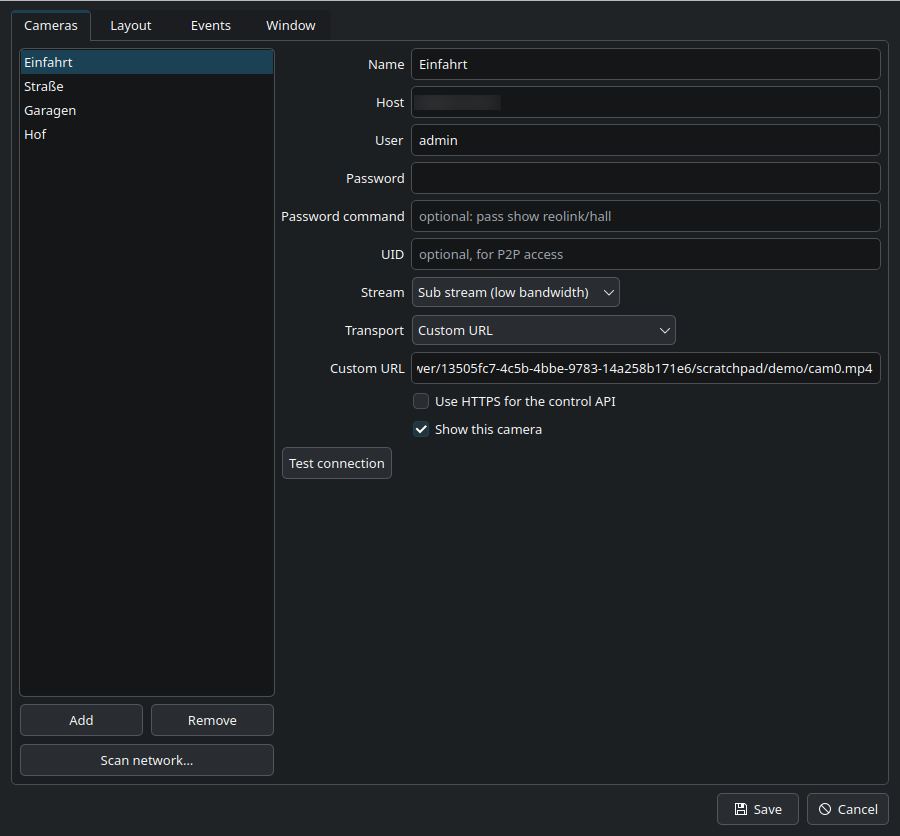
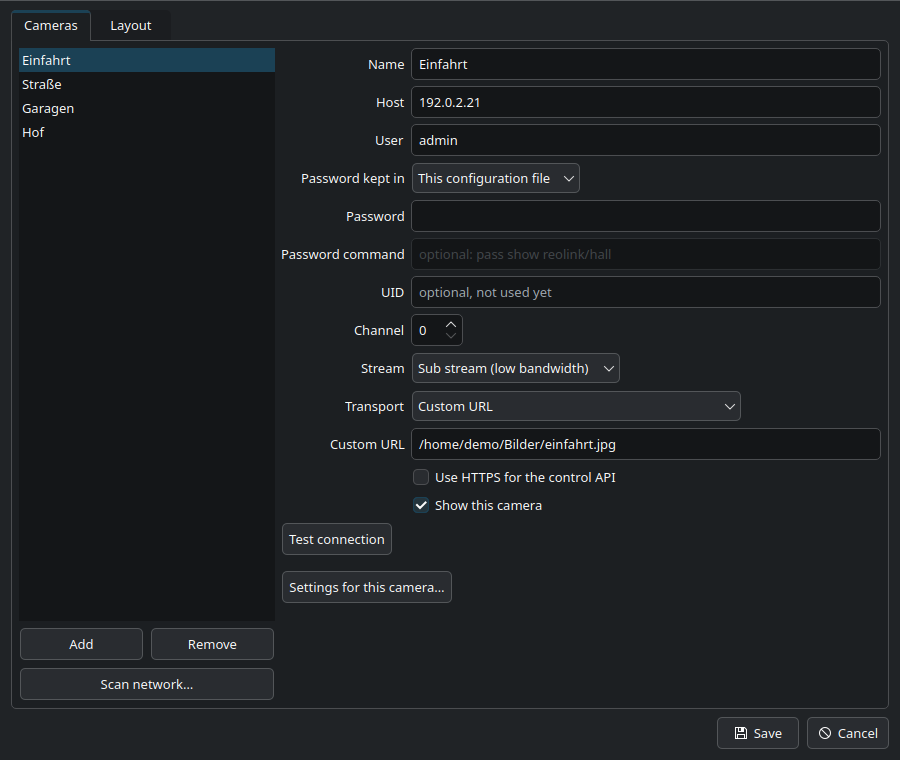
Take the settings screenshots again, now the settings are split
The settings window was split into the camera list (Cameras, Layout) and
Settings (Window, On motion, Reactions, Recordings, Video, General), and the
screenshots still showed the old Events and Window tabs. Two of them were in
the store listing; the camera list showed a temporary file's path in its
Custom URL field.

The camera list and layout are taken again, with documentation addresses
and tidy paths, in the same dark theme as the rest. On motion and Reactions
are new. The store listing loses the old Events and Window pictures, gains
the camera list, and shows Reactions for what happens on motion. The old
files stay, since releases already out point at them.

LEOLINK_SCREENSHOT_OF=preferences takes every page of Settings, as
=settings does for the camera list.

diff --git a/src/MainWindow.cpp b/src/MainWindow.cpp
@@ -217,6 +217,13 @@ MainWindow::MainWindow(QWidget *parent)
                 QApplication::quit();
                 return;
             }
+            if (which == QLatin1String("preferences")) {
+                PreferencesDialog dialog(m_config, this);
+                dialog.resize(900, 760);
+                shootTabs(dialog, QStringLiteral("preferences"));
+                QApplication::quit();
+                return;
+            }
             if (which.startsWith(QLatin1String("camera:"))) {
                 const QString host = which.mid(7);
                 for (const CameraConfig &camera : m_config.active()) {

diff --git a/README.md b/README.md
@@ -86,8 +86,8 @@ from and what was blurred.
 |---|---|
 | ![Cameras](docs/screenshots/settings-01-cameras.png) | ![Layout](docs/screenshots/settings-02-layout.png) |
 | **Cameras** — address, credentials, stream and transport | **Layout** — the grid, and which cell a camera occupies |
-| ![Events](docs/screenshots/settings-03-events.png) | ![Window](docs/screenshots/settings-04-window.png) |
-| **Events** — what counts as motion and what happens then | **Window** — chrome, tray, language, decoding, diagnostics |
+| ![On motion](docs/screenshots/preferences-02-on-motion.png) | ![Reactions](docs/screenshots/preferences-03-reactions.png) |
+| **Settings → On motion** — what the window does when a camera sees something | **Settings → Reactions** — a command, a webhook, an MQTT message |
 
 ### Camera settings
 
@@ -459,8 +459,7 @@ screen to compare against. If your recordings land a day out, say so — it is o
 constant in `CameraSettingsDialog.cpp`.
 
 The screenshots in `docs/screenshots` show freely licensed photographs through
-the custom-URL transport, never a real camera, and predate the settings window's
-split into its current tabs.
+the custom-URL transport, never a real camera.
 
 Sound to the camera over Baichuan is not implemented: it goes over the ONVIF
 backchannel, inside RTSP, so a camera without RTSP gets no speak button.

diff --git a/docs/screenshots/CREDITS.md b/docs/screenshots/CREDITS.md
@@ -46,7 +46,7 @@ invented figures.
 ## Reproducing them
 
 `LEOLINK_SCREENSHOT=<dir>` saves the main window; add
-`LEOLINK_SCREENSHOT_OF=settings` or `camera:<host>` for every page of a
-settings dialog, one file per tab. Dialogs render correctly on a virtual
+`LEOLINK_SCREENSHOT_OF=settings`, `preferences` or `camera:<host>` for every
+page of a settings dialog, one file per tab. Dialogs render correctly on a virtual
 display; the video tiles need a real graphics card, so the grid shot is taken
 on a normal session, capturing the leolink window alone by its window id.
